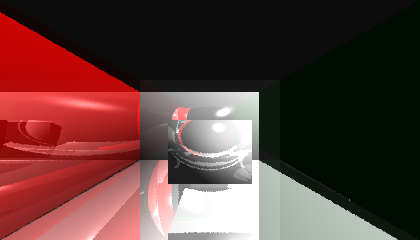
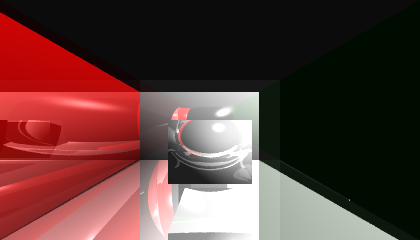
Multibox reflections

diff --git a/raytracer.py b/raytracer.py
@@ -10,48 +10,49 @@ from math import inf, cos, sin
 
 random.seed(2019)
 
-AA_LEVEL = 2
+AA_LEVEL = 16
 IMAGE_SIZE = [240, 420]
 view_volume = Volume()
 camera_origin = Point([0, 0, 0])
 
-# Load MINI model
+# Load appropriate model
 # with open('mini_geometry.json', 'r') as json_file:
 #     geometry_data = json.load(json_file)
 # with open('mini_material.json', 'r') as json_file:
 #     material_data = json.load(json_file)
-with open('bounding_box.json', 'r') as json_file:
-    geometry_data = json.load(json_file)
-with open('bounding_material.json', 'r') as json_file:
-    material_data = json.load(json_file)
+#
+# with open('bounding_box.json', 'r') as json_file:
+#     geometry_data = json.load(json_file)
+# with open('bounding_material.json', 'r') as json_file:
+#     material_data = json.load(json_file)
 
-rot = np.array([
-    [1, 0, 0, 0],
-    [0, cos(np.deg2rad(-90)), -sin(np.deg2rad(-90)), 0],
-    [0, sin(np.deg2rad(-90)), cos(np.deg2rad(-90)), 0],
-    [0, 0, 0, 1]
-])
-scl = np.array([
-    [1 / 181 / 5, 0, 0, 0],
-    [0, 1 / 181 / 5, 0, 0],
-    [0, 0, 1 / 181 / 5, 0],
-    [0, 0, 0, 1]
-])
-trn = np.array([
-    [1, 0, 0, 0],
-    [0, 1, 0, 0],
-    [0, 0, 1, -0.5],
-    [0, 0, 0, 1]
-])
-
-model_transform = np.matmul(trn, np.matmul(scl, rot))
-
-modelview_transform = np.array([
-    [0.0011049723252654076, 0, 0, 0],
-    [0, 0, -0.0011049723252654076, 0],
-    [0, 0.0011049723252654076, 0, 0],
-    [0, 0, 0, 1]
-])
+# rot = np.array([
+#     [1, 0, 0, 0],
+#     [0, cos(np.deg2rad(-90)), -sin(np.deg2rad(-90)), 0],
+#     [0, sin(np.deg2rad(-90)), cos(np.deg2rad(-90)), 0],
+#     [0, 0, 0, 1]
+# ])
+# scl = np.array([
+#     [1 / 181 / 5, 0, 0, 0],
+#     [0, 1 / 181 / 5, 0, 0],
+#     [0, 0, 1 / 181 / 5, 0],
+#     [0, 0, 0, 1]
+# ])
+# trn = np.array([
+#     [1, 0, 0, 0],
+#     [0, 1, 0, 0],
+#     [0, 0, 1, -0.5],
+#     [0, 0, 0, 1]
+# ])
+#
+# model_transform = np.matmul(trn, np.matmul(scl, rot))
+#
+# modelview_transform = np.array([
+#     [0.0011049723252654076, 0, 0, 0],
+#     [0, 0, -0.0011049723252654076, 0],
+#     [0, 0.0011049723252654076, 0, 0],
+#     [0, 0, 0, 1]
+# ])
 
 scene = Scene()
 
@@ -63,8 +64,8 @@ scene = Scene()
 #     scene.add_geometry(component)
 
 
-# Add reflective box
-generate_boxes(scene)
+# Add reflective boxes
+generate_box_scene(scene)
 
 # Create scene lights
 scene.add_light(Light(position=[-1, -1, -1]))
@@ -93,7 +94,6 @@ for i in range(0, IMAGE_SIZE[0]):
         pixel_colors = np.array(pixel_colors)
         float64_img[i, j, :] = np.average(pixel_colors, axis=0)
 
-# uint8_img = np.divide(float64_img.astype(np.float64), float64_img.max(initial=-inf))
 uint8_img = 255 * np.clip(float64_img, 0, 1)
 uint8_img = uint8_img.astype(np.uint8)
 

diff --git a/scene.py b/scene.py
@@ -5,6 +5,9 @@ from math import inf
 
 
 class Scene:
+    """
+    Object to hold the geometry and lights of a 3-D scene and trace rays to find the minimal point of intersection.
+    """
     acne_offset = 0.00000001
 
     def __init__(self):
@@ -21,7 +24,17 @@ class Scene:
             raise TypeError("Expected Light component")
         self.__lights.append(light)
 
-    def trace(self, ray) -> tuple:
+    def trace(self, ray: Ray) -> tuple:
+        """
+        Traces a given ray through the scene to find the minimal point of intersection.
+
+        :param ray:
+            (Ray) The ray propagating through the scene
+
+        :return:
+            (tuple) A set containing the offset 't' found for minimal intersection and the intersection point
+                    with interpolated values.
+        """
         if not isinstance(ray, Ray):
             raise TypeError("Trace only works with class Ray")
 

diff --git a/geometry_generator.py b/geometry_generator.py
@@ -2,7 +2,7 @@ from geometry import *
 from math import cos, sin
 
 
-def generate_boxes(scene):
+def generate_box_scene(scene):
     # Cornell Box
     cube_face = Mesh(name="Bottom")
     cube_face.append(Triangle(Point(pos=[-1, -0.5, 0], normals=[-1, 1, 0], rgba=[0.94, 0.94, 0.94, 1],
